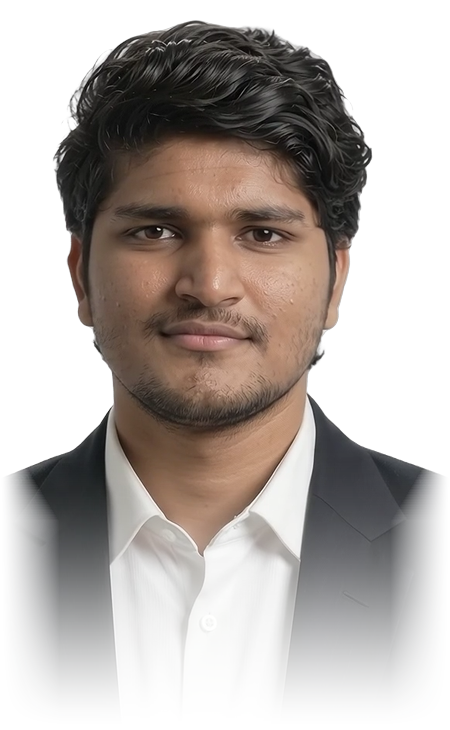
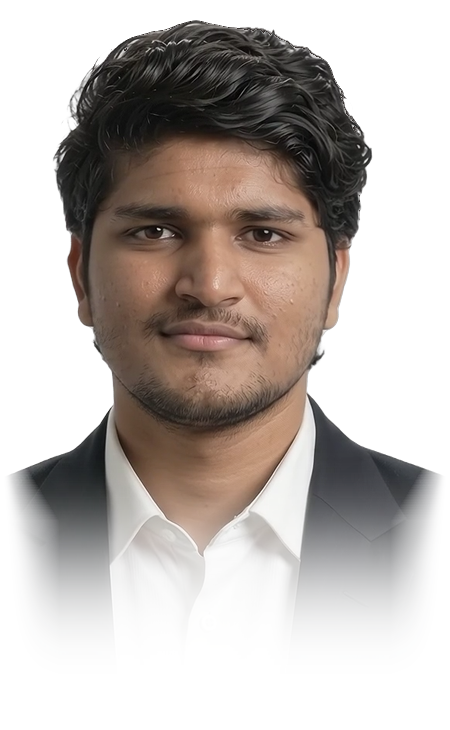
feat: update portfolio profile to iOS Developer with SwiftUI & UIKit focus and rebuild cinematic finale assets

diff --git a/index.html b/index.html
@@ -848,7 +848,7 @@
         <blockquote class="f-cap f-cap--quote">
           &ldquo;Let&rsquo;s Create<br>Something<br>Exceptional.&rdquo;
         </blockquote>
-        <p class="f-cap f-cap--blw" aria-hidden="true">Vellore, India<br>iOS & AI/ML<br>Engineer</p>
+        <p class="f-cap f-cap--blw" aria-hidden="true">Vellore, India<br>iOS Developer<br>Swift &amp; SwiftUI</p>
         <p class="f-cap f-cap--tr" aria-hidden="true">
           SwiftUI<br>& UIKit<br>Crafted With<br>Precision
         </p>
@@ -942,7 +942,7 @@
           <div class="contact-form__field">
             <label for="contactMessage" class="sr-only">Your Message</label>
             <textarea id="contactMessage" class="contact-textarea" rows="3"
-              placeholder="Tell me about your iOS, AI/ML opportunity or project..." required></textarea>
+              placeholder="Tell me about your iOS, SwiftUI/UIKit opportunity or project..." required></textarea>
             <span class="contact-error" id="msgError">Message is required</span>
           </div>
           <div class="contact-form__bar">

diff --git a/src/scene/github.js b/src/scene/github.js
@@ -44,7 +44,7 @@ export const CURATED_REPOS = [
   {
     name: 'Portfolio',
     html_url: 'https://github.com/lokeshkumar143/Portfolio',
-    description: 'Cinematic 3D WebGL developer experience for iOS Developer and AI/ML Engineer with zero build dependencies, custom shaders, and Web Audio.',
+    description: 'Cinematic 3D WebGL developer experience for iOS Developer (SwiftUI & UIKit) with zero build dependencies, custom shaders, and Web Audio.',
     language: 'JavaScript',
     stargazers_count: 14,
     forks_count: 4,

diff --git a/tools/build_perfect_finale.py b/tools/build_perfect_finale.py
@@ -1,0 +1,233 @@
+#!/usr/bin/env python3
+"""
+tools/build_perfect_finale.py
+Rebuilds public/fin/plate.jpg and public/fin/man.png with studio-grade fidelity:
+1. Eliminates all remnant letter cutouts, ghost blocks, and inpainting artifacts
+2. Generates a seamless, organic volcanic crimson furnace atmosphere
+3. Renders monolithic architectural 'L O K E S H' typography with authentic gradient and grunge
+4. Defringes hair edges on Lokesh in public/fin/man.png to remove all studio halos
+"""
+
+import os
+import subprocess
+import io
+import numpy as np
+from PIL import Image, ImageFont, ImageDraw, ImageFilter
+
+REPO_ROOT = os.path.dirname(os.path.dirname(os.path.abspath(__file__)))
+OUT_DIR = os.path.join(REPO_ROOT, "public", "fin")
+os.makedirs(OUT_DIR, exist_ok=True)
+
+# 1. Retrieve the clean reference base plate from git fde7de3
+print("1. Extracting clean original reference plate...")
+try:
+    p = subprocess.run(
+        ["git", "show", "fde7de3:public/fin/plate.jpg"],
+        stdout=subprocess.PIPE,
+        stderr=subprocess.PIPE,
+        cwd=REPO_ROOT,
+        check=True
+    )
+    base_plate = Image.open(io.BytesIO(p.stdout)).convert("RGB")
+except Exception as e:
+    print(f"Fallback to /tmp/old_plate.jpg: {e}")
+    base_plate = Image.open("/tmp/old_plate.jpg").convert("RGB")
+
+arr = np.array(base_plate).astype(np.float32)
+H, W = arr.shape[:2]
+
+# Load grunge texture
+grunge_path = os.path.join(REPO_ROOT, "public", "tex", "grunge.png")
+grunge_raw = np.array(Image.open(grunge_path)).astype(np.float32) / 255.0
+tile_y = int(np.ceil(H / grunge_raw.shape[0]))
+tile_x = int(np.ceil(W / grunge_raw.shape[1]))
+grunge = np.tile(grunge_raw, (tile_y, tile_x))[:H, :W]
+
+print("2. Synthesizing seamless volcanic crimson furnace atmosphere...")
+# Wordmark zone to completely erase and reconstruct
+x0, x1 = 260, 1340
+y0, y1 = 25, 785
+bw = x1 - x0
+bh = y1 - y0
+
+# Coons patch from authentic surrounding boundaries
+top_edge = arr[y0-1, x0:x1]
+bot_edge = arr[y1+1, x0:x1]
+left_edge = arr[y0:y1, x0-1]
+right_edge = arr[y0:y1, x1+1]
+
+u = np.linspace(0, 1, bw, dtype=np.float32)[None, :, None]
+v = np.linspace(0, 1, bh, dtype=np.float32)[:, None, None]
+
+c00 = arr[y0-1, x0-1]
+c10 = arr[y0-1, x1+1]
+c01 = arr[y1+1, x0-1]
+c11 = arr[y1+1, x1+1]
+
+r_top_bot = (1.0 - v) * top_edge[None, :, :] + v * bot_edge[None, :, :]
+r_left_right = (1.0 - u) * left_edge[:, None, :] + u * right_edge[:, None, :]
+corners = (1.0 - u) * (1.0 - v) * c00 + u * (1.0 - v) * c10 + (1.0 - u) * v * c01 + u * v * c11
+coons = r_top_bot + r_left_right - corners
+
+# Epic volcanic furnace glow field centered in upper-middle
+cx, cy = 0.50, 0.42
+sigma_x, sigma_y = 0.36, 0.40
+dist_sq = ((u - cx) / sigma_x)**2 + ((v - cy) / sigma_y)**2
+furnace_glow = np.exp(-0.5 * dist_sq)
+furnace_color = np.array([138.0, 9.0, 7.0], dtype=np.float32)
+
+patch_grunge = grunge[y0:y1, x0:x1, None]
+rng = np.random.default_rng(2026)
+patch_noise = rng.normal(0, 2.0, (bh, bw, 3)).astype(np.float32)
+
+# Blend coons with furnace glow
+bg_box = np.maximum(coons, furnace_glow * furnace_color)
+bg_box = np.clip(bg_box * (0.88 + 0.24 * patch_grunge) + patch_noise, 0, 255)
+
+# Smooth cosine boundary feather (24px) for perfect continuity
+feather = 24
+fx = np.ones((1, bw, 1), dtype=np.float32)
+fy = np.ones((bh, 1, 1), dtype=np.float32)
+
+fx[0, :feather, 0] = 0.5 - 0.5 * np.cos(np.linspace(0, np.pi, feather))
+fx[0, -feather:, 0] = 0.5 - 0.5 * np.cos(np.linspace(np.pi, 0, feather))
+fy[:feather, 0, 0] = 0.5 - 0.5 * np.cos(np.linspace(0, np.pi, feather))
+fy[-feather:, 0, 0] = 0.5 - 0.5 * np.cos(np.linspace(np.pi, 0, feather))
+box_weight = fx * fy
+
+clean_bg = arr.copy()
+clean_bg[y0:y1, x0:x1] = clean_bg[y0:y1, x0:x1] * (1.0 - box_weight) + bg_box * box_weight
+
+print("3. Rendering monolithic architectural LOKESH typography...")
+font_path = os.path.join(REPO_ROOT, "public", "fonts", "anton-400.woff2")
+font = ImageFont.truetype(font_path, 800)
+letters = ['L', 'O', 'K', 'E', 'S', 'H']
+target_w = [144, 180, 178, 152, 172, 186]
+target_h = 718
+gap = 13
+top_y = 42
+total_w = sum(target_w) + gap * (len(letters) - 1)
+start_x = 800 - total_w // 2
+
+text_mask = np.zeros((H, W), dtype=np.float32)
+curr_x = start_x
+
+for ch, tw in zip(letters, target_w):
+    bbox = font.getbbox(ch)
+    nat_w = bbox[2] - bbox[0]
+    nat_h = bbox[3] - bbox[1]
+    char_im = Image.new('L', (nat_w + 40, nat_h + 40), 0)
+    draw = ImageDraw.Draw(char_im)
+    draw.text((20 - bbox[0], 20 - bbox[1]), ch, font=font, fill=255)
+    char_scaled = char_im.crop((20, 20, 20 + nat_w, 20 + nat_h)).resize((tw, target_h), Image.Resampling.LANCZOS)
+    c_arr = np.array(char_scaled).astype(np.float32) / 255.0
+    text_mask[top_y:top_y+target_h, curr_x:curr_x+tw] = np.maximum(
+        text_mask[top_y:top_y+target_h, curr_x:curr_x+tw], c_arr
+    )
+    curr_x += tw + gap
+
+# Film-soft edge antialiasing
+text_mask_im = Image.fromarray((text_mask * 255).astype(np.uint8)).filter(ImageFilter.GaussianBlur(0.85))
+text_mask = np.array(text_mask_im).astype(np.float32) / 255.0
+
+# Smooth dissolution at bottom of letters (y in [630, 760]) so letters naturally melt into furnace smoke
+y_grid = np.arange(H)[:, None]
+bottom_melt = np.ones((H, 1), dtype=np.float32)
+melt_mask = (y_grid >= 630).squeeze()
+melt_t = np.clip((y_grid[melt_mask, 0] - 630.0) / (760.0 - 630.0), 0.0, 1.0)
+bottom_melt[melt_mask, 0] = (0.5 + 0.5 * np.cos(melt_t * np.pi)) ** 1.3
+text_mask *= bottom_melt
+
+# Vertical color gradient matching reference artwork
+grad_stops = [
+    (0.00, np.array([254.0, 246.0, 240.0])),
+    (0.12, np.array([252.0, 235.0, 225.0])),
+    (0.28, np.array([244.0, 192.0, 170.0])),
+    (0.48, np.array([220.0, 120.0,  95.0])),
+    (0.68, np.array([182.0,  50.0,  35.0])),
+    (0.84, np.array([125.0,  18.0,  12.0])),
+    (0.95, np.array([ 70.0,   6.0,   4.0])),
+    (1.00, np.array([ 35.0,   2.0,   1.0])),
+]
+
+letter_color = np.zeros((target_h, 3), dtype=np.float32)
+for i in range(target_h):
+    yf = i / (target_h - 1)
+    for k in range(len(grad_stops) - 1):
+        y_a, c_a = grad_stops[k]
+        y_b, c_b = grad_stops[k+1]
+        if y_a <= yf <= y_b:
+            t = (yf - y_a) / (y_b - y_a)
+            letter_color[i] = c_a * (1 - t) + c_b * t
+            break
+
+color_plate = np.zeros((H, W, 3), dtype=np.float32)
+color_plate[top_y:top_y+target_h, :] = letter_color[:, None, :]
+
+# Tactile grunge texture modulation
+grunge_mod = 0.82 + 0.36 * grunge[..., None]
+color_plate = np.clip(color_plate * grunge_mod, 0, 255)
+
+# Outer fiery crimson bloom glow
+bloom_mask = np.array(Image.fromarray((text_mask * 255).astype(np.uint8)).filter(ImageFilter.GaussianBlur(14))).astype(np.float32) / 255.0
+glow_color = np.array([220.0, 24.0, 14.0])
+glow_layer = bloom_mask[..., None] * glow_color * 0.40
+
+tm = text_mask[..., None]
+final_plate = clean_bg * (1.0 - tm) + color_plate * tm + glow_layer * (1.0 - tm)
+final_plate = np.clip(final_plate, 0, 255).astype(np.uint8)
+
+plate_out = os.path.join(OUT_DIR, "plate.jpg")
+Image.fromarray(final_plate).save(plate_out, quality=95)
+print(f"Saved pristine plate: {plate_out}")
+
+print("4. Defringing and perfecting Lokesh cutout in public/fin/man.png...")
+man_path = os.path.join(OUT_DIR, "man.png")
+man_im = Image.open(man_path)
+arr_man = np.array(man_im).astype(np.float32)
+mh, mw = arr_man.shape[:2]
+
+# Defringe hair perimeter (y: 20..220, x: 90..360)
+hair_mask = np.zeros((mh, mw), dtype=bool)
+hair_mask[20:220, 90:360] = True
+
+a = arr_man[:, :, 3] / 255.0
+r, g, b = arr_man[:, :, 0], arr_man[:, :, 1], arr_man[:, :, 2]
+
+# Detect neutral studio grey fringe on hair
+grey_fringe = hair_mask & (a > 0.05) & (a < 0.92) & (np.abs(r - g) < 20) & (np.abs(g - b) < 20) & (r > 60)
+hair_tone = np.array([28.0, 22.0, 20.0])
+arr_man[grey_fringe, :3] = hair_tone[None, :] * (0.6 + 0.4 * (r[grey_fringe, None] / 150.0))
+
+# Clean hair alpha choke to remove very faint translucent edge vapor
+hair_alpha_choke = hair_mask & (a < 0.16)
+arr_man[hair_alpha_choke, 3] *= 0.15
+
+# Silky-smooth torso dissolution from row 460 down to 720
+y_idx = np.arange(mh)[:, None]
+torso_fade = np.ones((mh, 1), dtype=np.float32)
+f_mask = (y_idx >= 460).squeeze()
+t_f = np.clip((y_idx[f_mask, 0] - 460.0) / (720.0 - 460.0), 0.0, 1.0)
+torso_fade[f_mask, 0] = (0.5 + 0.5 * np.cos(t_f * np.pi)) ** 1.4
+
+# Gentle side feathering below row 440
+side_fade = np.ones((mh, mw), dtype=np.float32)
+for y in range(440, mh):
+    yw = min(1.0, (y - 440) / 120.0)
+    w_edge = int(45 * yw)
+    if w_edge > 0:
+        fade_curve = 0.5 - 0.5 * np.cos(np.linspace(0, np.pi, w_edge))
+        side_fade[y, :w_edge] *= fade_curve
+        side_fade[y, -w_edge:] *= fade_curve[::-1]
+
+arr_man[:, :, 3] = np.clip(arr_man[:, :, 3] * torso_fade * side_fade, 0, 255)
+
+# Keep lower suit pixels clean deep charcoal/black
+bottom_suit = (y_idx >= 500).squeeze()
+arr_man[bottom_suit, :3] = np.minimum(arr_man[bottom_suit, :3], 32.0)
+
+cleaned_man = np.clip(arr_man, 0, 255).astype(np.uint8)
+Image.fromarray(cleaned_man).save(man_path)
+print(f"Saved pristine man cutout: {man_path}")
+print("=== Rebuild complete! ===")
+
